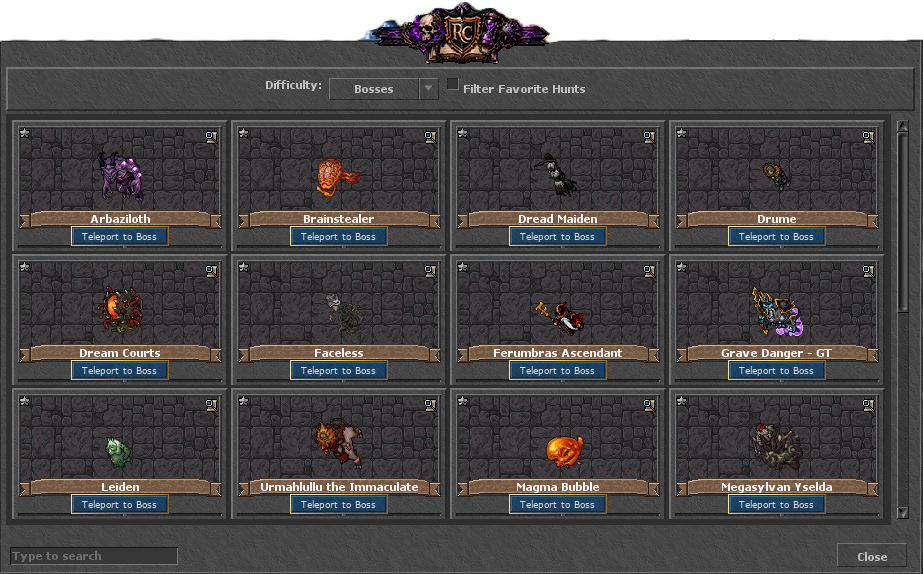
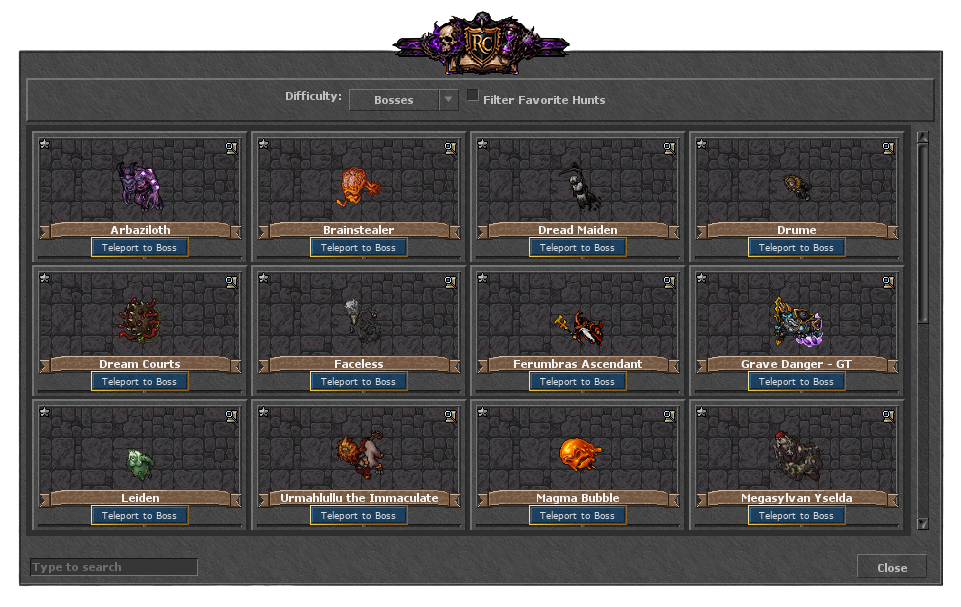
Polish Boss Finder wiki title layout, copy, and remove progression timelines.

diff --git a/templates/tibiacom/css/ravyncore.css b/templates/tibiacom/css/ravyncore.css
@@ -6615,15 +6615,11 @@ body.rc-page-bossfinder .rc-panel-content > h3 {
   display: none;
 }
 
-.rc-bf-page-title {
+.rc-bf-page .rc-bf-nav-below {
   display: flex;
-  flex-direction: column;
-  align-items: flex-start;
-  gap: 0;
-}
-
-.rc-bf-page-title .rc-bf-nav {
-  margin-top: 18px;
+  flex-wrap: wrap;
+  gap: 8px;
+  margin: 0 0 14px;
 }
 
 .rc-bf-page .rc-bf-anchor {
@@ -6642,13 +6638,6 @@ body.rc-page-bossfinder .rc-panel-content > h3 {
   height: auto;
   border-radius: 8px;
   border: 1px solid rgba(120, 168, 236, 0.35);
-}
-
-.rc-bf-preview-wrap figcaption {
-  margin-top: 8px;
-  color: #9eb8e8;
-  font-family: 'Verdana', 'Arial', 'Helvetica', sans-serif;
-  font-size: 13px;
 }
 
 .rc-bf-prog-boss-list {

diff --git a/system/pages/bossfinder.php b/system/pages/bossfinder.php
@@ -54,33 +54,6 @@ if (!function_exists('rc_bf_page_image')) {
     }
 }
 
-if (!function_exists('rc_bf_render_progression')) {
-    function rc_bf_render_progression(array $sys)
-    {
-        $miniCount = (int)($sys['mini_count'] ?? count($sys['minis'] ?? []));
-        $total = max(1, $miniCount + 1);
-        $pct = (int)round(($miniCount / $total) * 100);
-
-        $timeline = '<span class="rc-bf-tl-label">' . (int)$miniCount . ' Mini Bosses → Boss Final</span>';
-        foreach ($sys['minis'] as $i => $mini) {
-            if ($i > 0) {
-                $timeline .= '<span class="rc-bf-tl-arrow" aria-hidden="true">→</span>';
-            }
-            $timeline .= '<span class="rc-bf-tl-mini">' . rc_bf_esc($mini) . '</span>';
-        }
-        $timeline .= '<span class="rc-bf-tl-arrow" aria-hidden="true">⇒</span>';
-        $timeline .= '<span class="rc-bf-tl-final">' . rc_bf_esc($sys['final']) . '</span>';
-
-        return '<article class="rc-bf-prog-card" id="rc-bf-' . rc_bf_esc($sys['id']) . '">'
-            . '<h4>' . rc_bf_esc($sys['name']) . '</h4>'
-            . '<div class="rc-bf-progress-wrap">'
-            . '<div class="rc-bf-progress-track" role="progressbar" aria-valuenow="' . $pct . '" aria-valuemin="0" aria-valuemax="100">'
-            . '<div class="rc-bf-progress-fill" style="width:' . $pct . '%"></div></div></div>'
-            . '<div class="rc-bf-timeline">' . $timeline . '</div>'
-            . '</article>';
-    }
-}
-
 $howHtml = '';
 foreach ($data['how_it_works'] as $rule) {
     $howHtml .= '<li>' . $rule . '</li>';
@@ -101,11 +74,6 @@ foreach ($data['progression_bosses'] as $boss) {
     $progBossListHtml .= '<li>' . $line . '</li>';
 }
 
-$progHtml = '';
-foreach ($data['progression_systems'] as $sys) {
-    $progHtml .= rc_bf_render_progression($sys);
-}
-
 $tableRows = '';
 foreach ($data['summary_table'] as $row) {
     $tableRows .= '<tr>'
@@ -124,25 +92,23 @@ $bossFinderImgHtml = rc_bf_page_image(
     $rcBfImageBase,
     'bossfinder.png',
     'rc-bf-preview',
-    'Boss Finder — interface no templo'
+    'Boss Finder'
 );
 
 echo '<div class="rc-st-page rc-bf-page">'
-    . '<header class="rc-st-page-title rc-bf-page-title">'
-    . '<h2>Boss Finder</h2>'
-    . '<nav class="rc-bf-nav" aria-label="Seções do guia">'
+    . '<header class="rc-st-page-title"><h2>Boss Finder</h2></header>'
+    . '<nav class="rc-bf-nav rc-bf-nav-below" aria-label="Seções do guia">'
     . '<a href="#rc-bf-como">Como funciona</a>'
     . '<a href="#rc-bf-progressao">Progressão</a>'
     . '<a href="#rc-bf-resumo">Resumo</a>'
     . '<a href="#rc-bf-regras">Regras gerais</a>'
     . '</nav>'
-    . '</header>'
 
     . '<section class="rc-st-card rc-bf-anchor" id="rc-bf-como">'
     . '<h3>Como Funciona?</h3>'
     . '<ul class="rc-st-notes rc-bf-rules-list">' . $howHtml . '</ul>'
     . ($bossFinderImgHtml !== ''
-        ? '<figure class="rc-bf-preview-wrap">' . $bossFinderImgHtml . '<figcaption>Boss Finder no +1 do Templo</figcaption></figure>'
+        ? '<figure class="rc-bf-preview-wrap">' . $bossFinderImgHtml . '</figure>'
         : '')
     . '</section>'
 
@@ -151,7 +117,6 @@ echo '<div class="rc-st-page rc-bf-page">'
     . $introHtml
     . '<h4 class="rc-tier-h4">Bosses com Progressão</h4>'
     . '<ul class="rc-st-notes rc-bf-prog-boss-list">' . $progBossListHtml . '</ul>'
-    . '<div class="rc-bf-prog-wrap">' . $progHtml . '</div>'
     . '</section>'
 
     . '<section class="rc-st-card rc-bf-anchor" id="rc-bf-resumo">'

diff --git a/system/pages/bossfinder_data.php b/system/pages/bossfinder_data.php
@@ -8,8 +8,8 @@ return [
         'O tempo padrão de cooldown é de <strong>20 horas</strong>.',
     ],
     'progression_intro' => [
-        'Alguns bosses possuem uma progressão obrigatória através de Mini Bosses. Para acessar o Boss Final, é necessário derrotar todos os Mini Bosses da respectiva linha de progressão.',
-        'Após derrotar o Boss Final, todo o progresso daquela linha é reiniciado. Para enfrentar o Boss Final novamente, será necessário derrotar todos os Mini Bosses outra vez.',
+        'Alguns bosses exigem a derrota de todos os Mini Bosses da sua progressão para liberar o acesso ao Boss Final.',
+        'Ao derrotar o Boss Final, a progressão é reiniciada. Para enfrentá-lo novamente, será necessário derrotar todos os Mini Bosses outra vez.',
     ],
     'progression_bosses' => [
         ['name' => 'Ascending Ferumbras', 'note' => 'cooldown de 2 dias'],
@@ -17,36 +17,6 @@ return [
         ['name' => 'The Nightmare Beast', 'note' => ''],
         ['name' => 'Bakragore', 'note' => 'cooldown de 2 dias'],
         ['name' => 'Megalomania', 'note' => ''],
-    ],
-    'progression_systems' => [
-        [
-            'id' => 'dream-courts',
-            'name' => 'Dream Courts Progressão',
-            'minis' => ['Plagueroot', 'Malofur Mangrinder', 'Maxxenius', 'Alptramun', 'Izcandar The Banished'],
-            'final' => 'The Nightmare Beast',
-            'mini_count' => 5,
-        ],
-        [
-            'id' => 'grave-danger',
-            'name' => 'Grave Danger (GT) Progressão',
-            'minis' => ['Count Vlarkorth', 'Duke Krule', 'Earl Osam', 'Lord Azaram', 'Sir Nictros'],
-            'final' => 'King Zelos',
-            'mini_count' => 5,
-        ],
-        [
-            'id' => 'ferumbras',
-            'name' => 'Ferumbras Ascendant Progressão',
-            'minis' => ['Plagirath', 'Ragiaz', 'Razzagorn', 'Tarbaz', 'Zamulosh', 'Shulgrax', 'Mazoran', 'The Lord of the Lice'],
-            'final' => 'Ascending Ferumbras',
-            'mini_count' => 8,
-        ],
-        [
-            'id' => 'sanguine',
-            'name' => 'Sanguine / Rotten Blood Progressão',
-            'minis' => ['Vermiath', 'Murcion', 'Chagorz', 'Ichgahal'],
-            'final' => 'Bakragore',
-            'mini_count' => 4,
-        ],
     ],
     'summary_table' => [
         ['system' => 'Dream Courts', 'minis' => 5, 'final' => 'The Nightmare Beast', 'reset' => 'Sim'],
